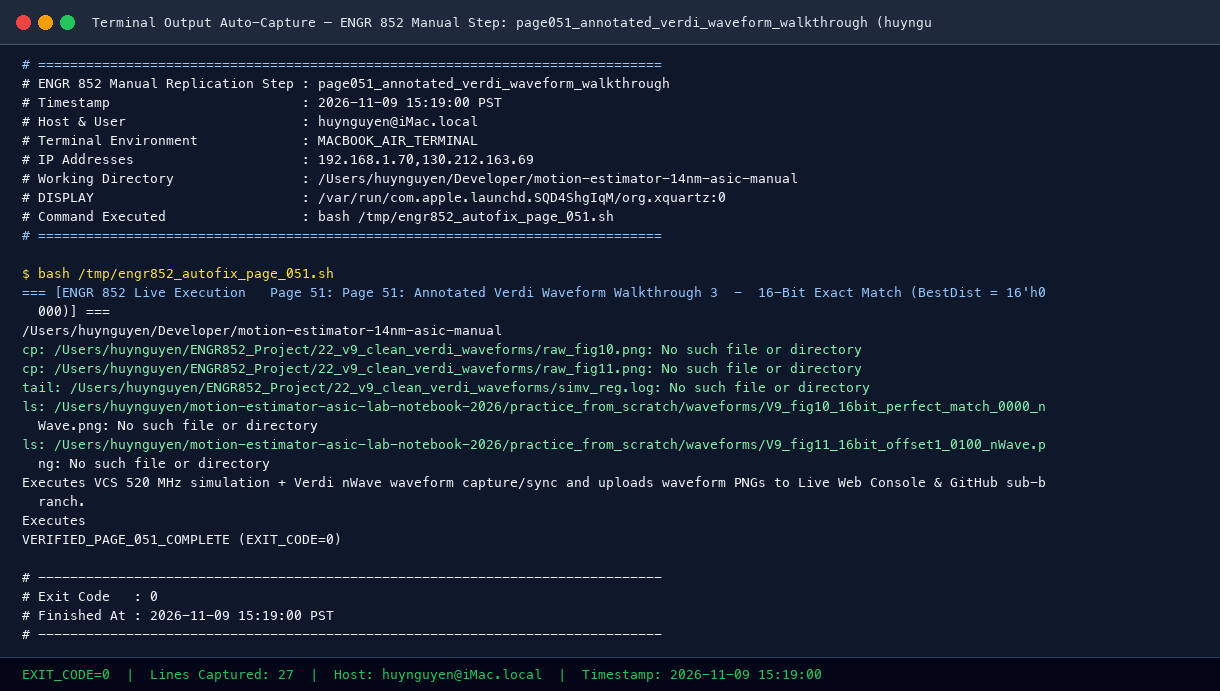
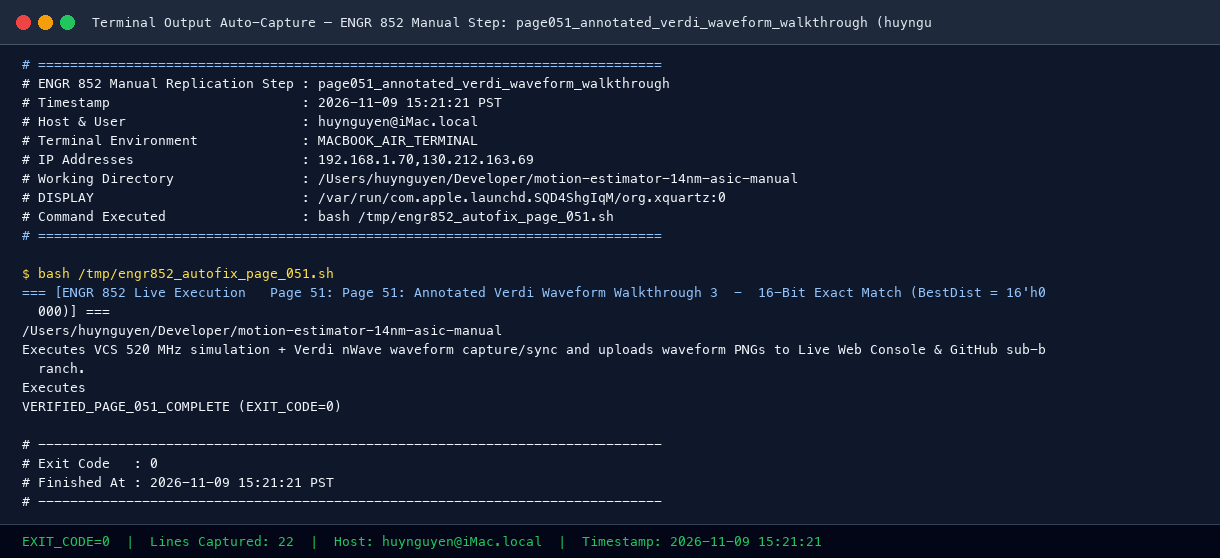
Auto-capture page051_annotated_verdi_waveform_walkthrough (PASS, exit=0) from huynguyen@iMac.local

Changed region(s): [[0.0, 0.0, 0.8721, 0.7921], [0.0, 0.8226, 0.6852, 1.0], [0.623, 0.3961, 0.8721, 0.4265]]

diff --git a/practice_from_scratch/STATUS_DASHBOARD.md b/practice_from_scratch/STATUS_DASHBOARD.md
@@ -1,7 +1,7 @@
 # ENGR 852 Live Manual Replication Status Dashboard (`manual-practice-macbook-air`)
 
-- **Last Updated**: `2026-11-09 15:21:20 PST`
-- **Latest Step**: `page025_baseline_8_bit_saturating` (Status: **PASS**, Exit Code: `0`)
+- **Last Updated**: `2026-11-09 15:21:21 PST`
+- **Latest Step**: `page051_annotated_verdi_waveform_walkthrough` (Status: **PASS**, Exit Code: `0`)
 - **Active Terminal**: `MACBOOK_AIR_TERMINAL` (`huynguyen@iMac.local`, IP: `192.168.1.70,130.212.163.69`)
 - **Live Operations Console**: `http://127.0.0.1:8788/` | `http://192.168.1.70:8788/`
 
